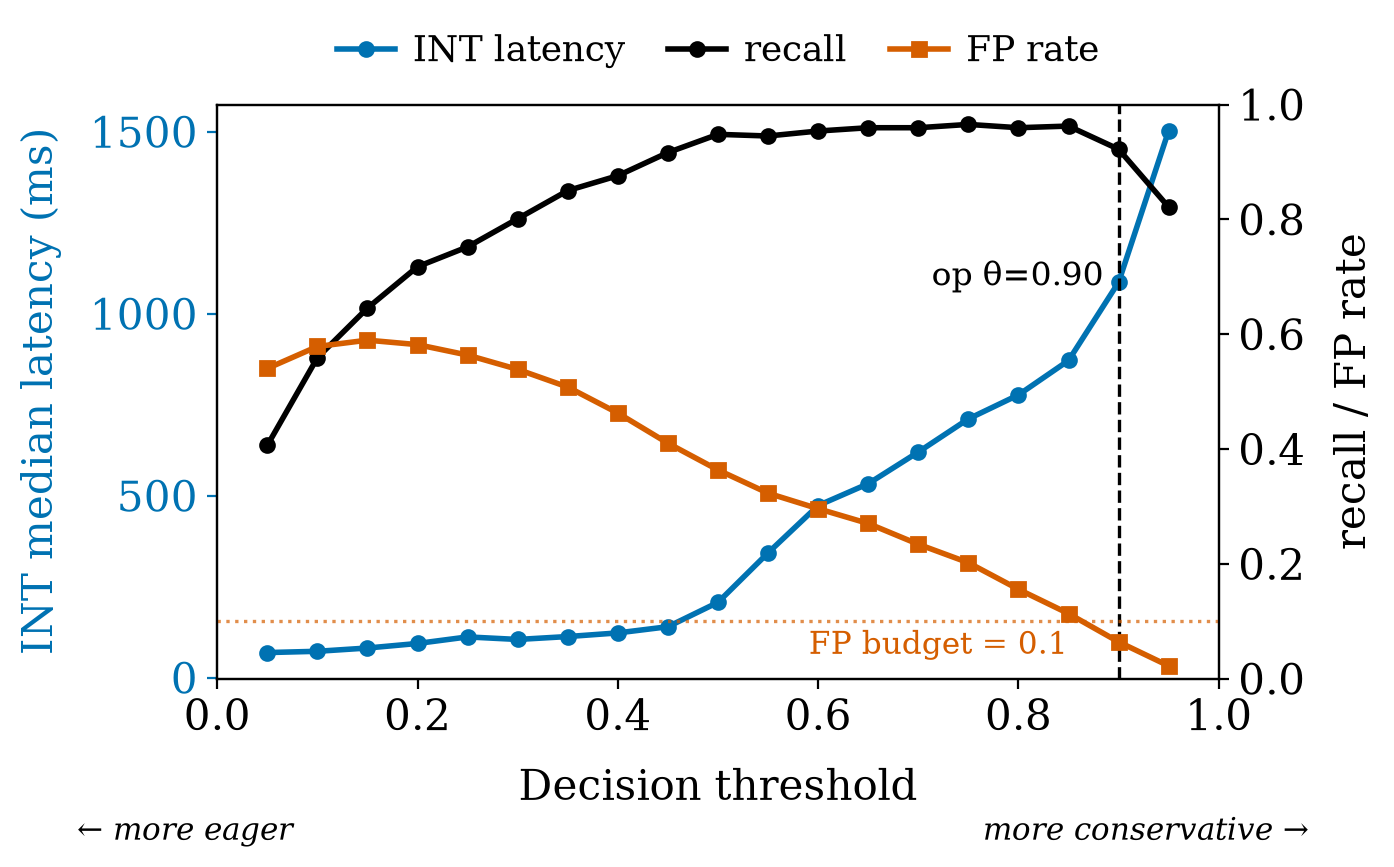
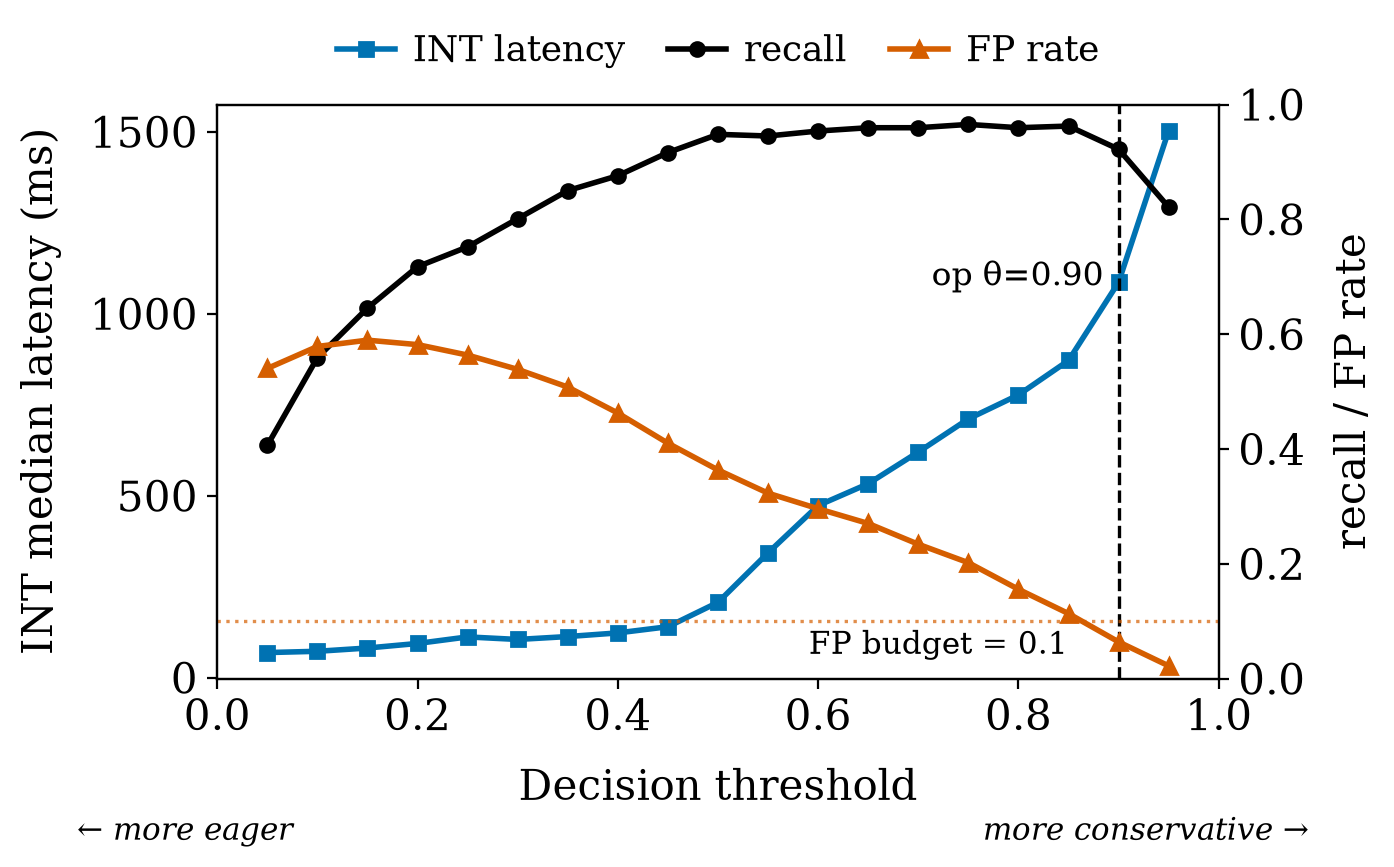
Update plot_sweep.py to enhance figure aesthetics by changing marker styles for latency and false-positive rate curves. Adjust text color for FP budget annotation for better visibility. Regenerate associated figures to reflect these updates.

diff --git a/data_analysis/plot_sweep.py b/data_analysis/plot_sweep.py
@@ -56,21 +56,19 @@ def plot_single(rows: list[SweepRow], task: str, out: Path, *, fp_budget: float,
     fig, axL = plt.subplots(figsize=(7.2, 5.0))
     fig.patch.set_facecolor(BG)  # white
     axL.set_facecolor(BG)
-    line_lat, = axL.plot(theta, _latency_masked(rows, recall_floor), "o-", color=OLIVE, lw=2, ms=5, label=f"{task} latency")
+    line_lat, = axL.plot(theta, _latency_masked(rows, recall_floor), "s-", color=OLIVE, lw=2, ms=5, label=f"{task} latency")
     axL.set_xlabel("Decision threshold", labelpad=10)
     axL.set_ylabel(f"{task} median latency (ms)", labelpad=10)
     axL.set_xlim(0.0, theta_max)
-    axL.tick_params(axis="y", colors=OLIVE)
-    axL.yaxis.label.set_color(OLIVE)
 
     axR = axL.twinx()
     line_rec, = axR.plot(theta, [r.recall for r in rows], "o-", color=STEEL, lw=2, ms=5, label="recall")
-    line_fp, = axR.plot(theta, [r.fp_rate for r in rows], "s-", color=CRIMSON, lw=2, ms=5, label="FP rate")
+    line_fp, = axR.plot(theta, [r.fp_rate for r in rows], "^-", color=CRIMSON, lw=2, ms=6, label="FP rate")
     axR.set_ylabel("recall / FP rate", labelpad=10)
     axR.set_ylim(0.0, 1.0)
     axR.axhline(fp_budget, ls=":", lw=1.2, color=CRIMSON, alpha=0.7)  # FP-rate budget
     axR.text(0.72, fp_budget - 0.015, f"FP budget = {fp_budget:g}", transform=axR.get_yaxis_transform(),
-             ha="center", va="top", fontsize=11, color=CRIMSON)
+             ha="center", va="top", fontsize=11, color=INK)
 
     if op is not None:
         axL.axvline(op.theta, ls="--", lw=1.2, color=INK)
